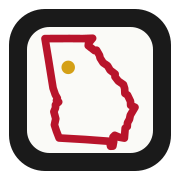
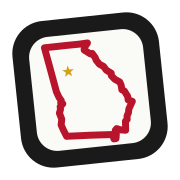
Persistent -6° tilt on logomark, swap Atlanta dot for a gold star
- Header + footer svg now carries -rotate-6 as its default state; hover
  pushes to -rotate-12 for a subtle wobble
- Atlanta marker is a 5-point star (same outer radius as the prior dot)
- Favicon.svg gets the same tilt via an SVG rotate transform and an
  expanded viewBox (-2 -2 44 44) so the rounded corners don't clip;
  apple-touch-icon.png re-rasterized to match

diff --git a/scripts/preview-logo.ts b/scripts/preview-logo.ts
@@ -9,19 +9,23 @@ const GA_PATH =
 
 const ATLANTA: [number, number] = [15.16, 13.47];
 
+const STAR_POINTS =
+  "15.16,11.97 15.51,12.985 16.58,13.01 15.73,13.655 16.04,14.68 15.16,14.07 14.28,14.68 14.59,13.655 13.74,13.01 14.81,12.985";
+
 function render(size: number, variant: "header" | "footer"): string {
   const isHeader = variant === "header";
   const outerFill = isHeader ? "#1A1A1A" : "#FAFAF7";
   const innerFill = isHeader ? "#FAFAF7" : "#1A1A1A";
   const strokeColor = isHeader ? "#B8142B" : "#D4A017";
-  const dotFill = isHeader ? "#D4A017" : "#B8142B";
-  // Outline-only, shifted down by 1 unit for better optical centering.
-  return `<svg xmlns="http://www.w3.org/2000/svg" viewBox="0 0 40 40" width="${size}" height="${size}">
-    <rect x="2" y="2" width="36" height="36" rx="8" fill="${outerFill}" />
-    <rect x="6" y="6" width="28" height="28" rx="5" fill="${innerFill}" />
-    <g transform="translate(0 1.5)">
-      <path d="${GA_PATH}" fill="none" stroke="${strokeColor}" stroke-width="1.7" stroke-linejoin="round" stroke-linecap="round" />
-      <circle cx="${ATLANTA[0]}" cy="${ATLANTA[1]}" r="1.5" fill="${dotFill}" />
+  const starFill = isHeader ? "#D4A017" : "#B8142B";
+  return `<svg xmlns="http://www.w3.org/2000/svg" viewBox="-2 -2 44 44" width="${size}" height="${size}">
+    <g transform="rotate(-6 20 20)">
+      <rect x="2" y="2" width="36" height="36" rx="8" fill="${outerFill}" />
+      <rect x="6" y="6" width="28" height="28" rx="5" fill="${innerFill}" />
+      <g transform="translate(0 1.5)">
+        <path d="${GA_PATH}" fill="none" stroke="${strokeColor}" stroke-width="1.7" stroke-linejoin="round" stroke-linecap="round" />
+        <polygon points="${STAR_POINTS}" fill="${starFill}" />
+      </g>
     </g>
   </svg>`;
 }

diff --git a/components/layout/footer.tsx b/components/layout/footer.tsx
@@ -32,7 +32,7 @@ export function SiteFooter() {
         <div className="grid gap-10 md:grid-cols-12">
           <div className="md:col-span-4">
             <div className="group flex items-center gap-2">
-              <svg viewBox="0 0 40 40" aria-hidden className="h-9 w-9 transform transition-transform duration-300 group-hover:-rotate-6">
+              <svg viewBox="0 0 40 40" aria-hidden className="h-9 w-9 transform -rotate-6 transition-transform duration-300 group-hover:-rotate-12">
                 <rect x="2" y="2" width="36" height="36" rx="8" fill="#FAFAF7" />
                 <rect x="6" y="6" width="28" height="28" rx="5" fill="#1A1A1A" />
                 <g transform="translate(0 1.5)">
@@ -44,7 +44,10 @@ export function SiteFooter() {
                     strokeLinejoin="round"
                     strokeLinecap="round"
                   />
-                  <circle cx="15.16" cy="13.47" r="1.5" fill="#B8142B" />
+                  <polygon
+                    points="15.16,11.97 15.51,12.985 16.58,13.01 15.73,13.655 16.04,14.68 15.16,14.07 14.28,14.68 14.59,13.655 13.74,13.01 14.81,12.985"
+                    fill="#B8142B"
+                  />
                 </g>
               </svg>
               <span className="font-display text-xl font-bold">Georgia Print Hub</span>

diff --git a/components/layout/header.tsx b/components/layout/header.tsx
@@ -136,7 +136,7 @@ function Logomark() {
       <svg
         viewBox="0 0 40 40"
         aria-hidden
-        className="h-10 w-10 transform transition-transform duration-300 group-hover:-rotate-6"
+        className="h-10 w-10 transform -rotate-6 transition-transform duration-300 group-hover:-rotate-12"
       >
         <rect x="2" y="2" width="36" height="36" rx="8" fill="#1A1A1A" />
         <rect x="6" y="6" width="28" height="28" rx="5" fill="#FAFAF7" />
@@ -150,7 +150,11 @@ function Logomark() {
             strokeLinejoin="round"
             strokeLinecap="round"
           />
-          <circle cx="15.16" cy="13.47" r="1.5" fill="#D4A017" />
+          {/* Atlanta — 5-point star, outer radius 1.5 centered at (15.16, 13.47) */}
+          <polygon
+            points="15.16,11.97 15.51,12.985 16.58,13.01 15.73,13.655 16.04,14.68 15.16,14.07 14.28,14.68 14.59,13.655 13.74,13.01 14.81,12.985"
+            fill="#D4A017"
+          />
         </g>
       </svg>
     </span>
